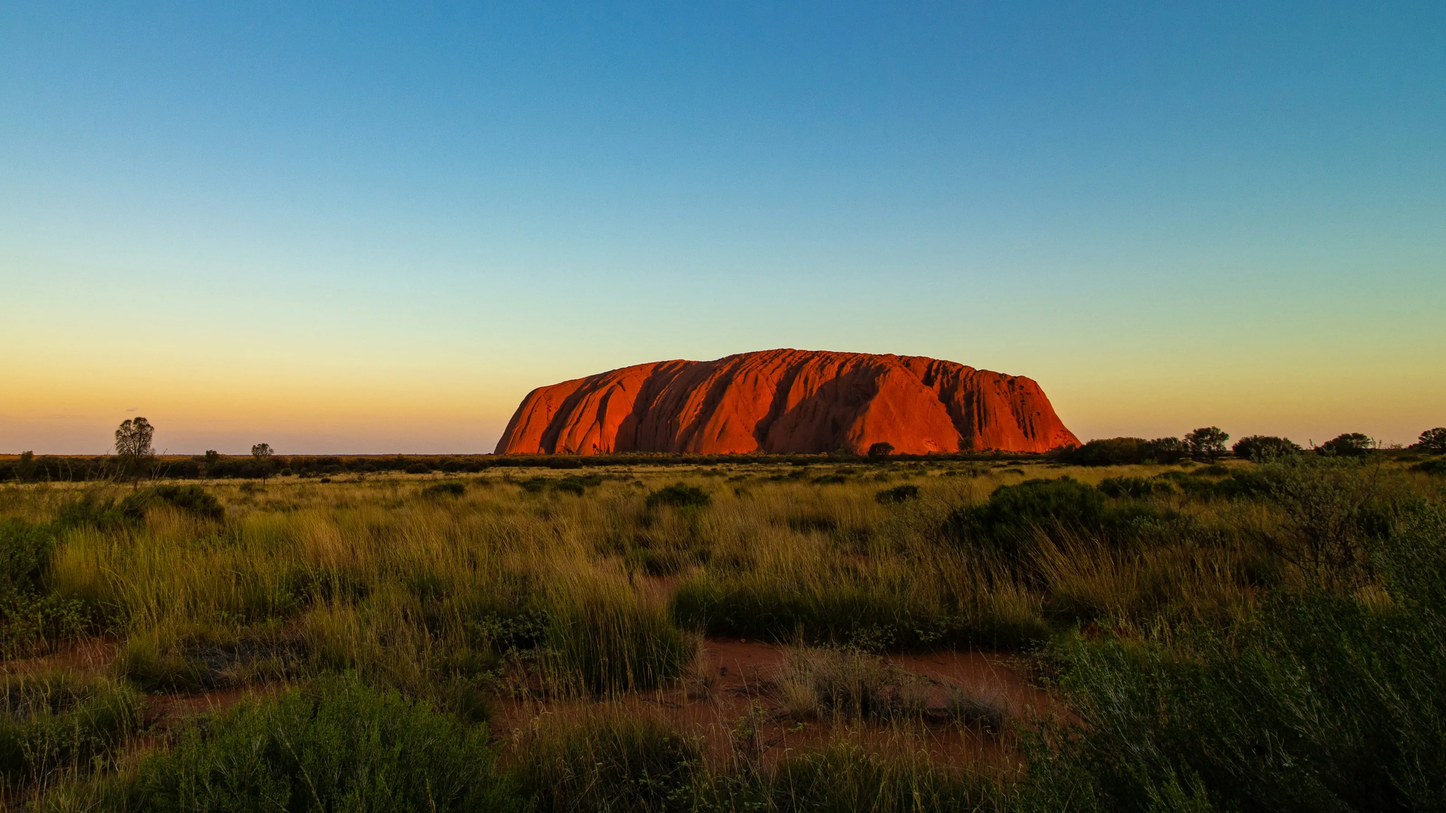
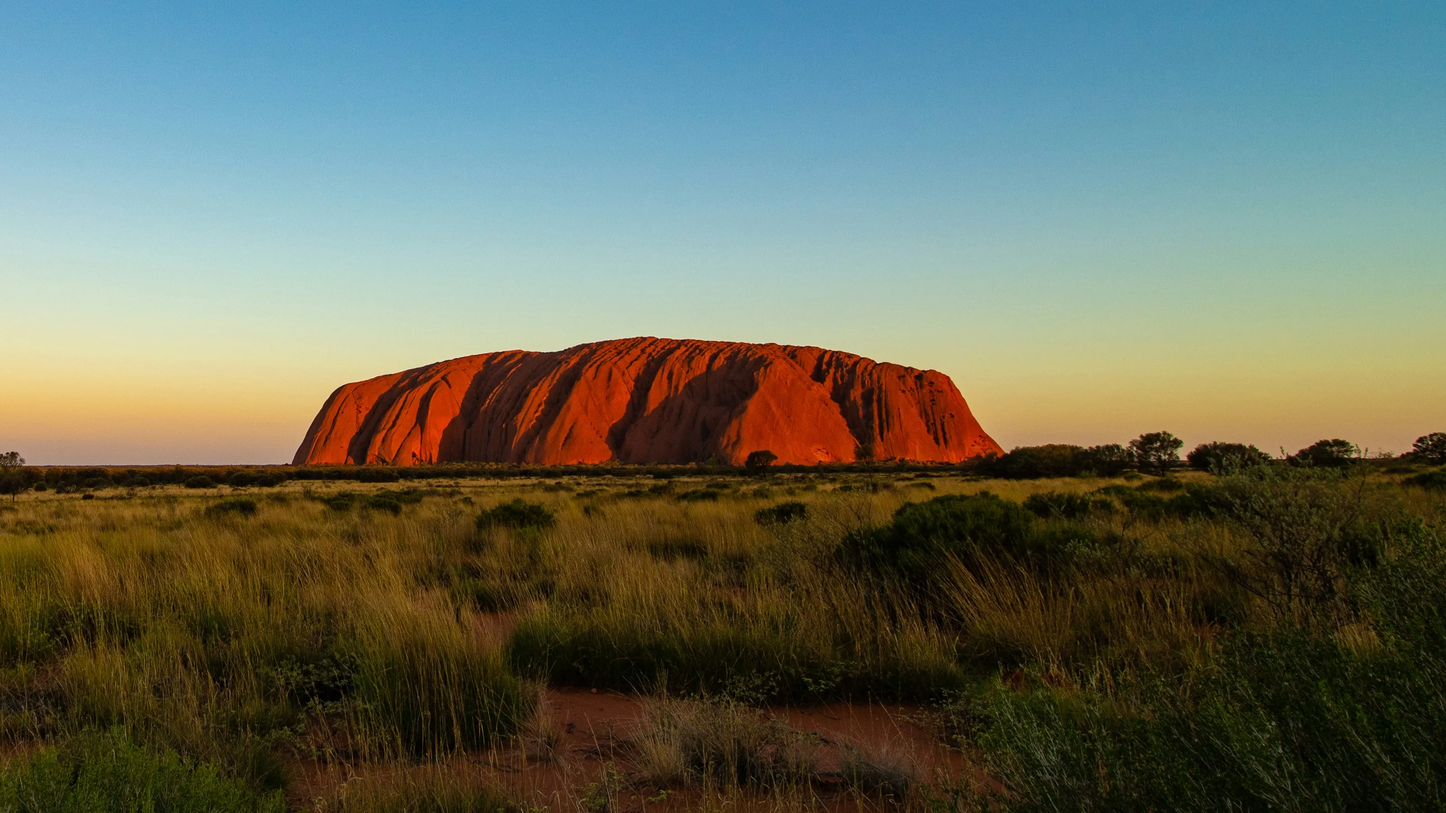
Enlarge Uluru in its frame and keep "Study in" clear of the masthead
Uluru is re-cropped at 3300x1856, between the original tight crop and the
wide one, so the rock reads larger while phones still get real pixels.
The word is placed so the rock cuts into its base on desktop and phone.

"Study in" could ride up under the masthead on some window sizes (seen on
St Kilda). The word now never sits higher than the masthead's height plus
a margin, on every slide.

diff --git a/index.html b/index.html
@@ -764,7 +764,7 @@ footer{background:var(--deep);color:var(--on-deep-2);padding-block:clamp(2.2rem,
       <img class="dh-fg" data-src="img/depth/canberra-fg-1400.webp" data-srcset="img/depth/canberra-fg-1400.webp 1400w, img/depth/canberra-fg-2400.webp 2400w, img/depth/canberra-fg-3200.webp 3200w" sizes="(max-aspect-ratio: 3/2) 150vh, 100vw" alt="">
       <span class="dh-study" aria-hidden="true">Study in</span>
     </div>
-    <div class="dh-slide warm" data-ar="1.7778" data-y="0.39" data-ym=".418" data-w="0.9" data-place="Uluru · NT" style="--pos:55% 50%">
+    <div class="dh-slide warm" data-ar="1.778" data-y=".36" data-ym=".395" data-w="0.9" data-place="Uluru · NT" style="--pos:55% 50%">
       <div class="dh-pan"><img class="dh-bg" data-src="img/depth/uluru-bg-1400.webp" data-srcset="img/depth/uluru-bg-1400.webp 1400w, img/depth/uluru-bg-2400.webp 2400w, img/depth/uluru-bg-3200.webp 3200w" sizes="(max-aspect-ratio: 16/9) 178vh, 100vw" alt="Uluru at dusk."></div>
       <span class="dh-word" aria-hidden="true">AUSTRALIA</span>
       <img class="dh-fg" data-src="img/depth/uluru-fg-1400.webp" data-srcset="img/depth/uluru-fg-1400.webp 1400w, img/depth/uluru-fg-2400.webp 2400w, img/depth/uluru-fg-3200.webp 3200w" sizes="(max-aspect-ratio: 16/9) 178vh, 100vw" alt="">
@@ -1024,10 +1024,13 @@ footer{background:var(--deep);color:var(--on-deep-2);padding-block:clamp(2.2rem,
     const py=(parseFloat((s.style.getPropertyValue("--pos")||"50% 50%").split(" ")[1])||50)/100;
     const oy=(H-ih)*py, yf=(W<861?+s.dataset.ym:+s.dataset.y);
     word.style.fontSize="100px"; const fs=100*(W*+s.dataset.w)/word.offsetWidth; word.style.fontSize=fs+"px";
-    const wh=word.offsetHeight, top=oy+ih*yf-wh/2;
+    const wh=word.offsetHeight, sh=study.offsetHeight;
+    // the label above the word must clear the masthead on any screen; the word gives way downwards
+    const floor=(document.querySelector(".masthead")?.offsetHeight||72)+12+sh*1.02;
+    const top=Math.max(oy+ih*yf-wh/2, floor);
     word.style.top=top+"px";
     study.style.left=((W-word.offsetWidth)/2+fs*.06)+"px";
-    study.style.top=(top-study.offsetHeight*1.02)+"px";
+    study.style.top=(top-sh*1.02)+"px";
   };
   const placeAll=()=>slides.forEach(place);
   const hydrate=()=>slides.slice(1).forEach(s=>s.querySelectorAll("img[data-src]").forEach(i=>{ i.srcset=i.dataset.srcset; i.src=i.dataset.src; i.removeAttribute("data-src"); i.removeAttribute("data-srcset"); }));
